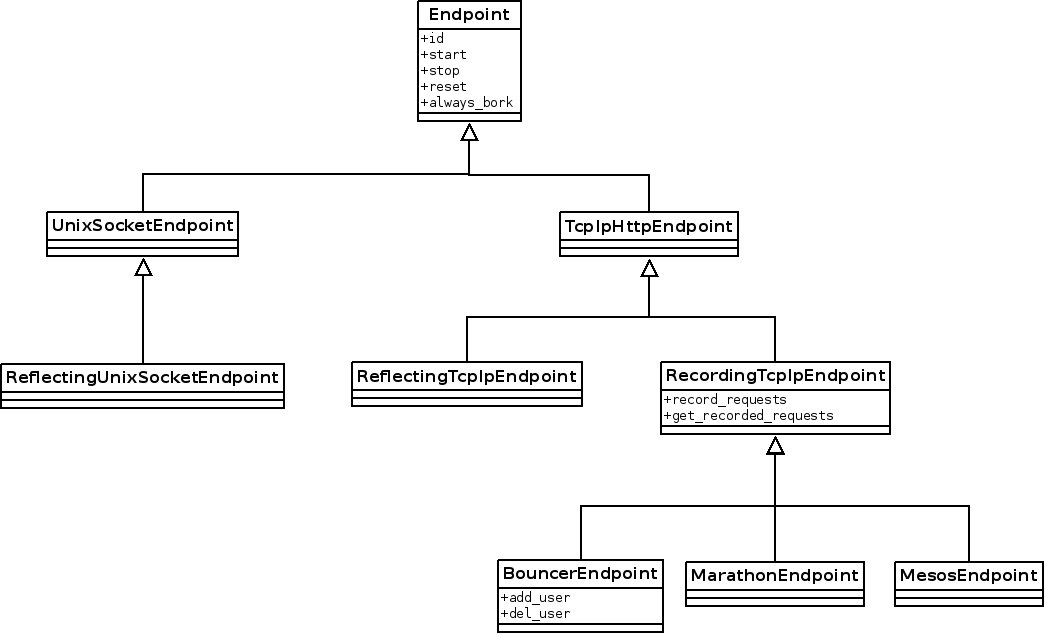
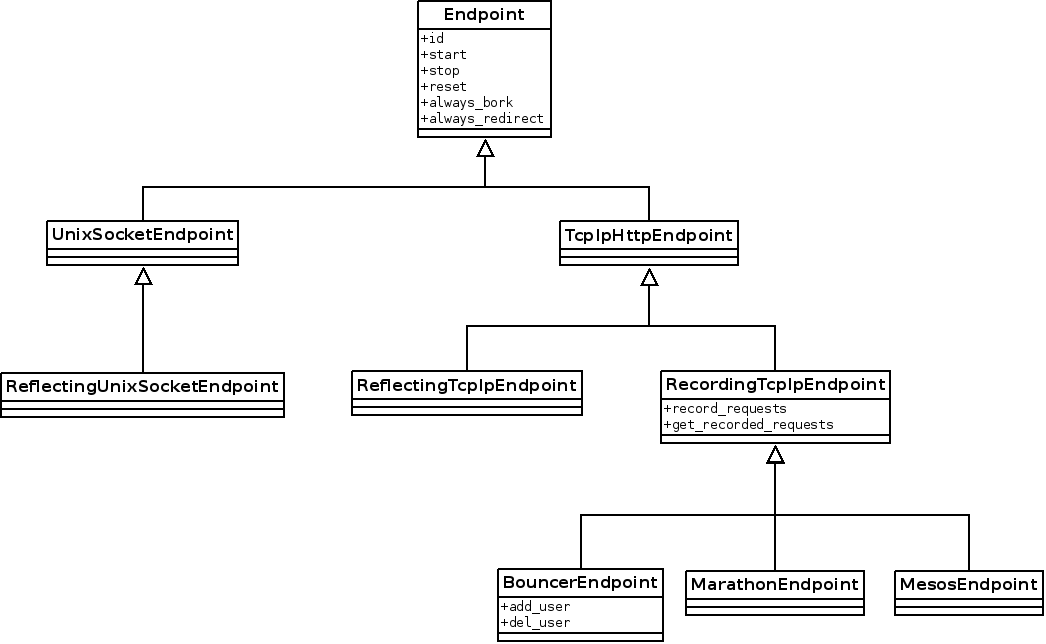
Add `always_redirect` command support for endpoints

diff --git a/test-harness/modules/mocker/endpoints/generic.py b/test-harness/modules/mocker/endpoints/generic.py
@@ -89,6 +89,8 @@ class Endpoint(abc.ABC):
         """
         initial_data = {"always_bork": False,
                         "endpoint_id": endpoint_id,
+                        "always_redirect": False,
+                        "redirect_target": None,
                         }
         self._context = EndpointContext(initial_data)
 
@@ -125,6 +127,8 @@ class Endpoint(abc.ABC):
         # but let's be consistent
         with self._context.lock:
             self._context.data['always_bork'] = False
+            self._context.data["always_redirect"] = False
+            self._context.data["redirect_target"] = None
 
     def always_bork(self, aux_data=None):
         """Make endpoint always respond with an error
@@ -136,6 +140,16 @@ class Endpoint(abc.ABC):
         del aux_data
         with self._context.lock:
             self._context.data["always_bork"] = True
+
+    def always_redirect(self, aux_data=None):
+        """Make endpoint always respond with a redirect
+
+        Args:
+            aux_data (str): target location for the redirect
+        """
+        with self._context.lock:
+            self._context.data["always_redirect"] = True
+            self._context.data["redirect_target"] = aux_data
 
 
 class StatefullHTTPServer(socketserver.ThreadingMixIn, http.server.HTTPServer):

diff --git a/test-harness/modules/mocker/endpoints/reflectors.py b/test-harness/modules/mocker/endpoints/reflectors.py
@@ -54,11 +54,27 @@ class ReflectingHTTPRequestHandler(BaseHTTPRequestHandler):
         """
         ctx = self.server.context
 
-        if ctx.data['always_bork']:
+        with ctx.lock:
+            # Seems a bit overkill:
+            do_always_bork = ctx.data['always_bork']
+            do_always_redirect = ctx.data['always_redirect']
+            redirect_target = ctx.data['redirect_target']
+
+        if do_always_bork:
             msg_fmt = "Endpoint `%s` sending broken response as requested"
             log.debug(msg_fmt, ctx.data['endpoint_id'])
             blob = b"Broken response due to `always_bork` flag being set"
             self._finalize_request(500, 'text/plain; charset=utf-8', blob)
+            return
+
+        if do_always_redirect:
+            msg_fmt = "Endpoint `%s` sending redirect to `%s` as requested"
+            log.debug(msg_fmt, ctx.data['endpoint_id'], redirect_target)
+            headers = {"Location": redirect_target}
+            self._finalize_request(307,
+                                   'text/plain; charset=utf-8',
+                                   blob,
+                                   extra_headers=headers)
             return
 
         # No need to specify character encoding if type is json:

diff --git a/test-harness/modules/mocker/endpoints/recording.py b/test-harness/modules/mocker/endpoints/recording.py
@@ -81,6 +81,8 @@ class RecordingHTTPRequestHandler(BaseHTTPRequestHandler):
             # Seems a bit overkill:
             do_record_request = ctx.data["record_requests"]
             do_always_bork = ctx.data['always_bork']
+            do_always_redirect = ctx.data['always_redirect']
+            redirect_target = ctx.data['redirect_target']
 
         if do_record_request:
             self._record_request()
@@ -90,6 +92,16 @@ class RecordingHTTPRequestHandler(BaseHTTPRequestHandler):
             log.debug(msg_fmt, ctx.data['endpoint_id'])
             blob = b"Broken response due to `always_bork` flag being set"
             self._finalize_request(500, 'text/plain; charset=utf-8', blob)
+            return
+
+        if do_always_redirect:
+            msg_fmt = "Endpoint `%s` sending redirect to `%s` as requested"
+            log.debug(msg_fmt, ctx.data['endpoint_id'], redirect_target)
+            headers = {"Location": redirect_target}
+            self._finalize_request(307,
+                                   'text/plain; charset=utf-8',
+                                   blob,
+                                   extra_headers=headers)
             return
 
         self._finalize_request(200, 'application/json', blob)

diff --git a/test-harness/modules/mocker/endpoints/basehandler.py b/test-harness/modules/mocker/endpoints/basehandler.py
@@ -105,16 +105,20 @@ class BaseHTTPRequestHandler(http.server.BaseHTTPRequestHandler,
                       self.log_date_time_string(),
                       log_format % args)
 
-    def _finalize_request(self, code, content_type, blob):
+    def _finalize_request(self, code, content_type, blob, extra_headers=None):
         """A helper function meant to abstract sending request to client
 
         Arguments:
             code (int): HTTP response code to send
             content_type (string): HTTP content type value of the response
             blob (b''): data to send to the client in the body of the request
+            extra_headers (dict): extra headers that should be set in the reply
         """
         self.send_response(code)
         self.send_header('Content-type', content_type)
+        if extra_headers is not None:
+            for name, val in extra_headers.items():
+                self.send_header(name, val)
         self.end_headers()
 
         self.wfile.write(blob)
